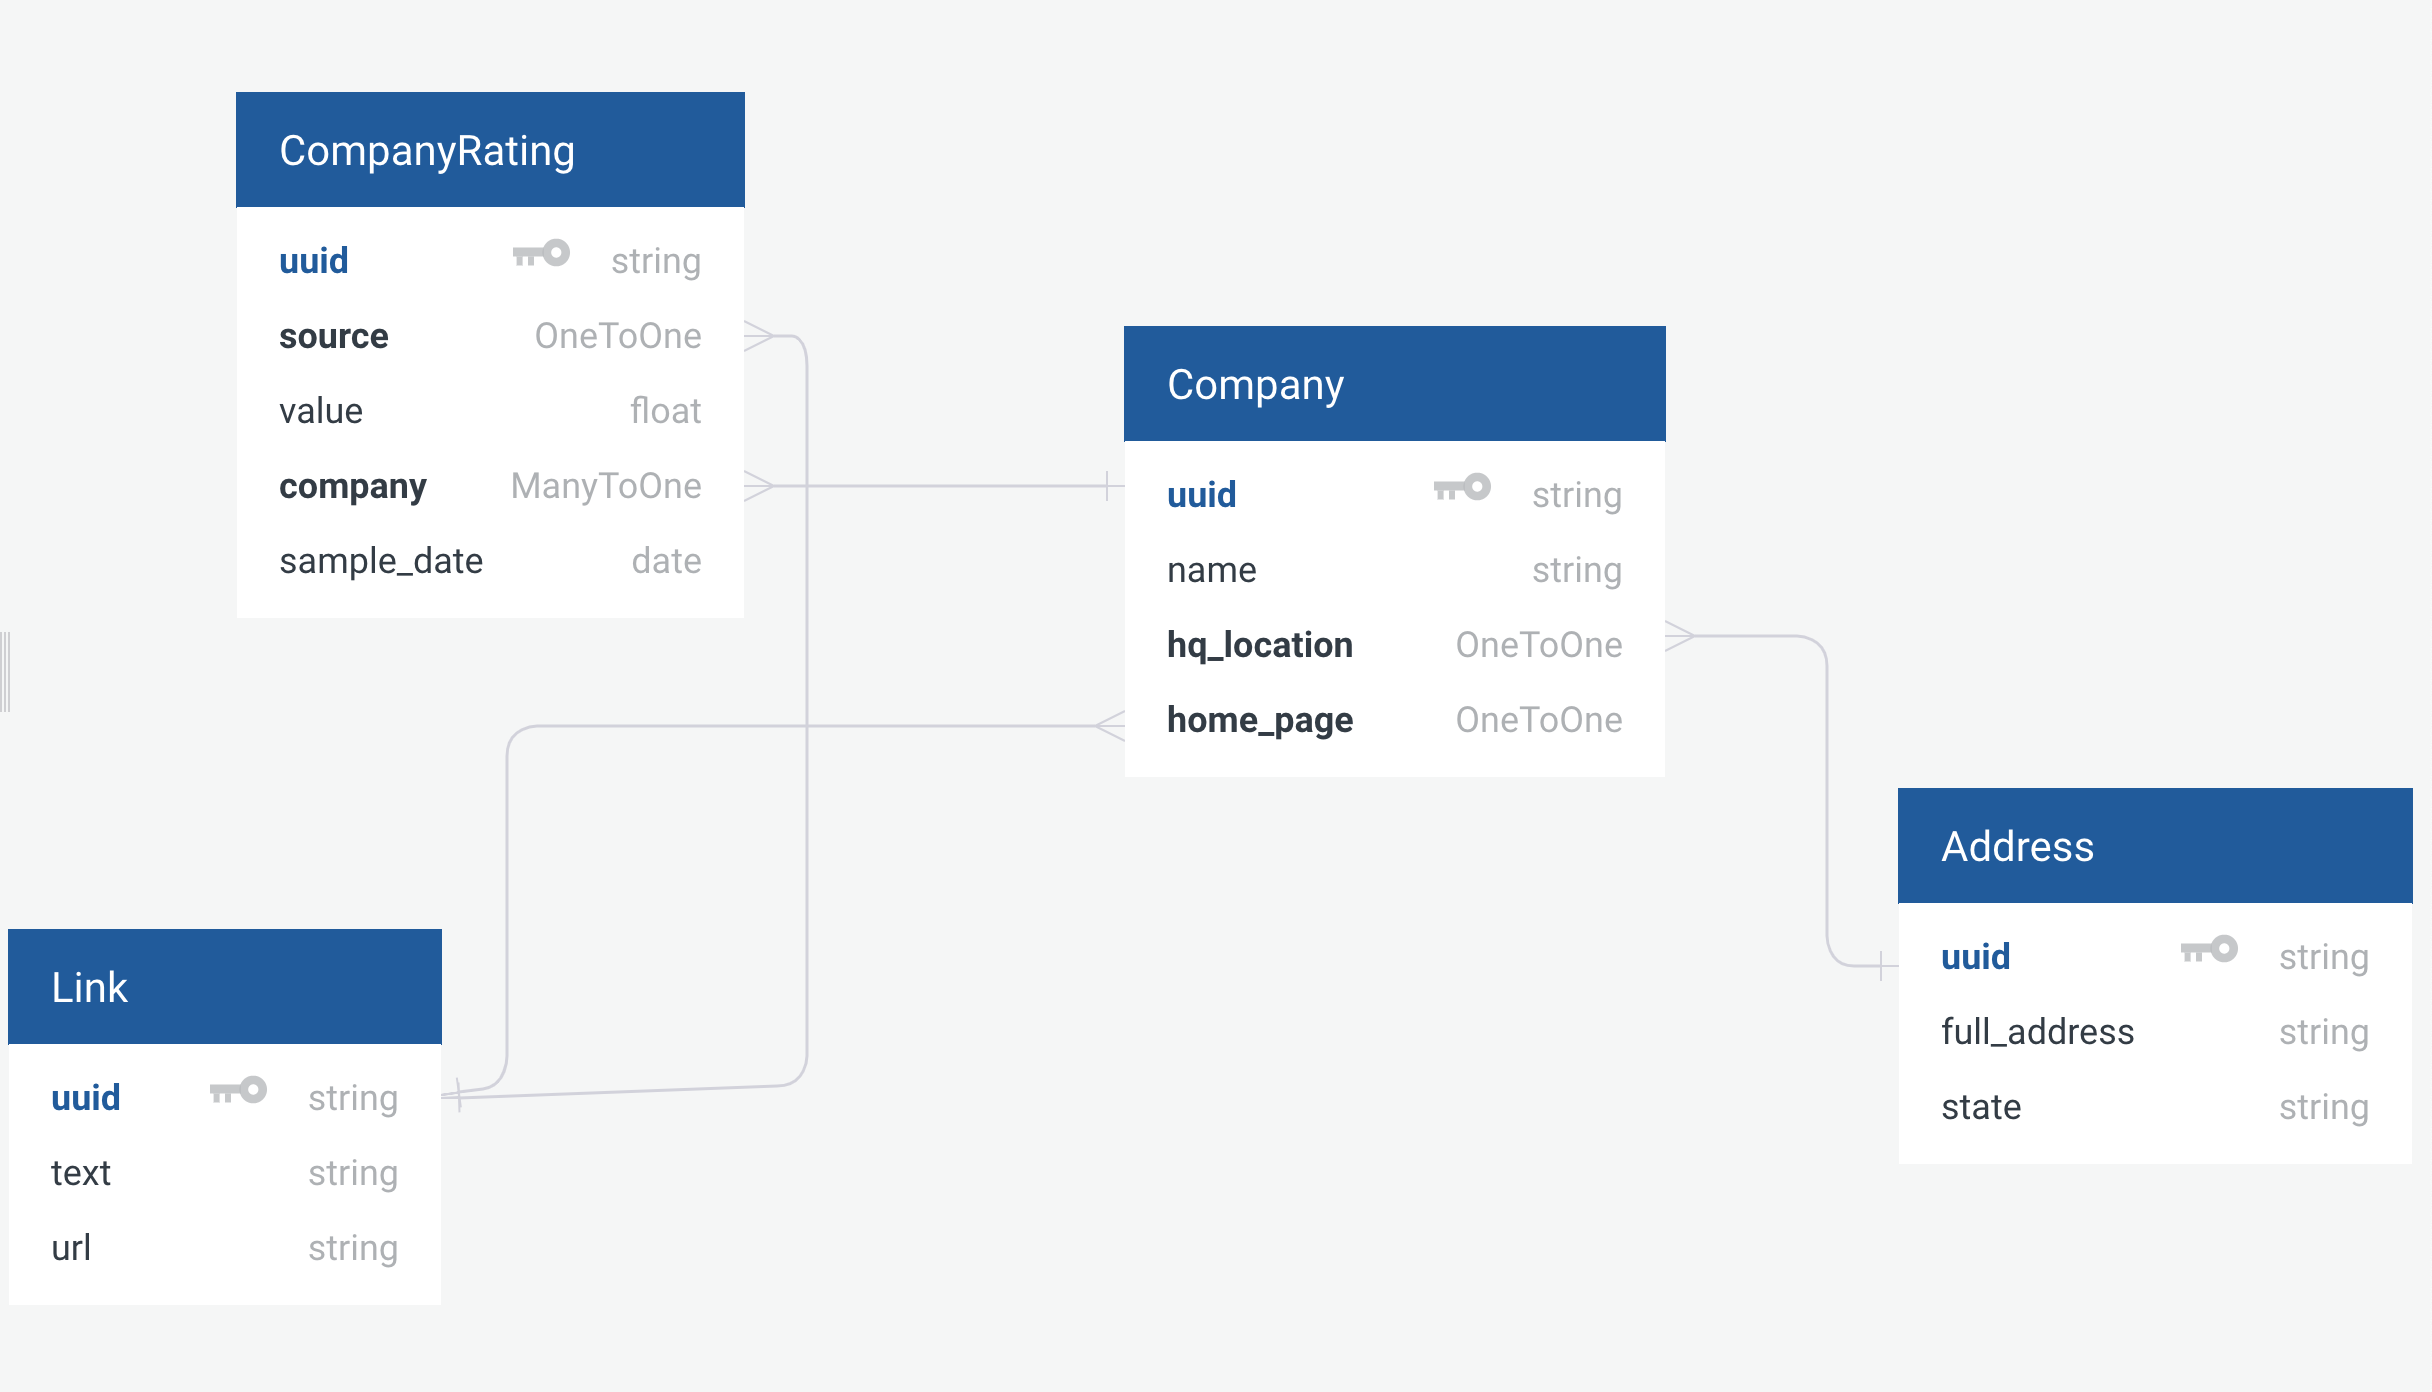
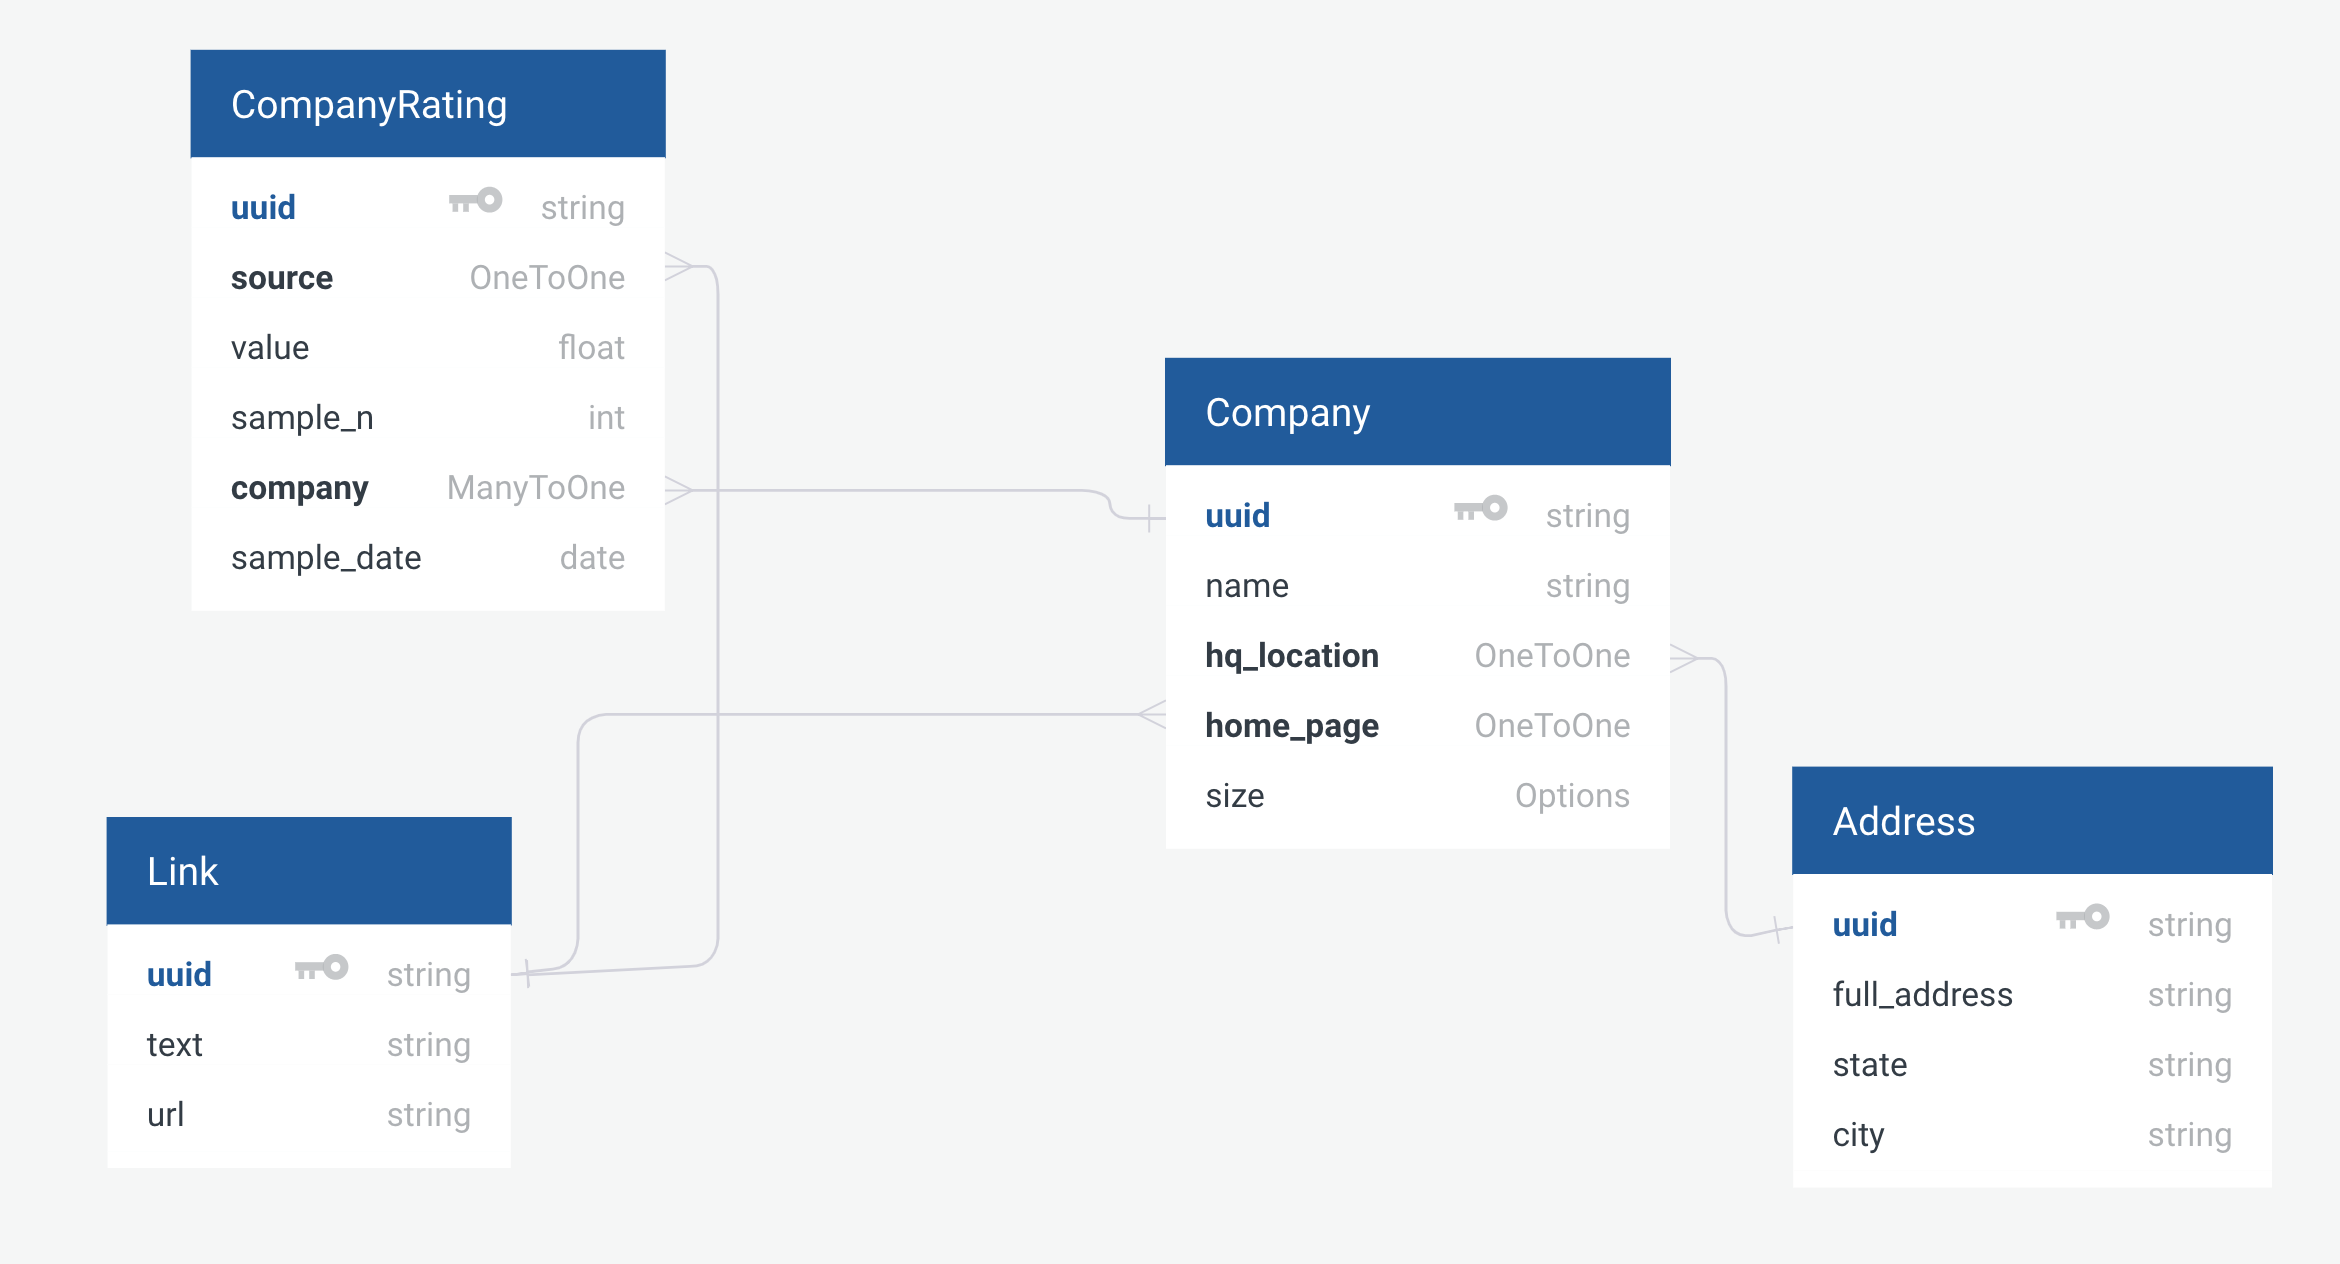
update db schema

diff --git a/README.md b/README.md
@@ -2,10 +2,16 @@
 
 ## Project Scope
 
-[Proposal Link](https://paper.dropbox.com/doc/SI507-Final-Project-by-Shaung-Cheng--Aa3swZraJVTqmfX6hACLwYLsAQ-W3RLpuHtj7eeItw4Hw4SI).
+## Data Schema
 
 ![Database schema](doc/img/db-schema.png)
 
-[Database schema design tool.](https://app.quickdatabasediagrams.com/#/d/oo35Ob)
+Or [access online](https://app.quickdatabasediagrams.com/#/d/oo35Ob).
 
-[Repository URL](https://github.com/rivernews/Final-Project-si507)
+## Reference & Resources
+
+- [Proposal Link](https://paper.dropbox.com/doc/SI507-Final-Project-by-Shaung-Cheng--Aa3swZraJVTqmfX6hACLwYLsAQ-W3RLpuHtj7eeItw4Hw4SI).
+
+- [Database schema design tool.](https://app.quickdatabasediagrams.com/#/d/oo35Ob)
+
+- [Repository URL](https://github.com/rivernews/Final-Project-si507)
